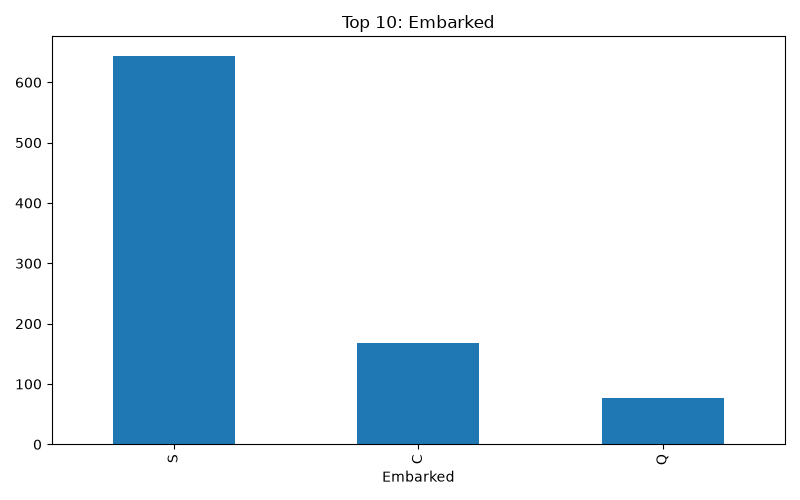
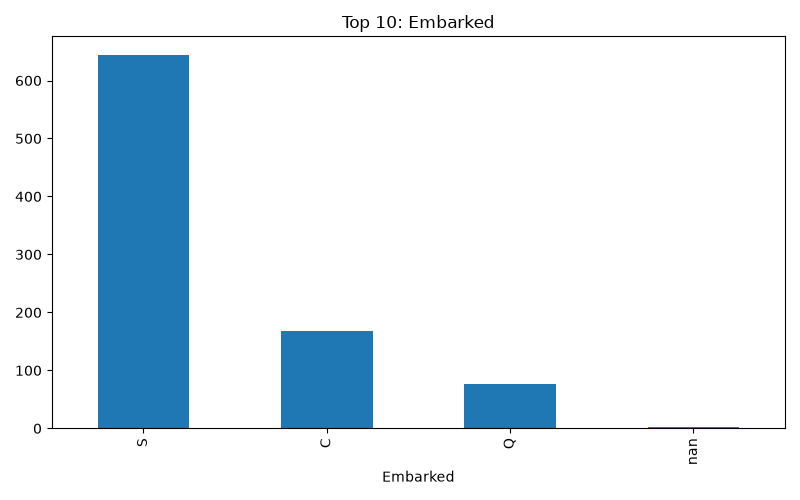
fix: handle missing categories and missing dataset file

diff --git a/eda.py b/eda.py
@@ -1,35 +1,35 @@
-import os
+from pathlib import Path
 import pandas as pd
 import matplotlib.pyplot as plt
 import seaborn as sns
 
-os.makedirs("outputs", exist_ok=True)
+OUTPUT_DIR = Path("outputs")
+OUTPUT_DIR.mkdir(exist_ok=True)
 
-df = pd.read_csv("cleaned_dataset.csv")
-
+csv_path = Path("cleaned_dataset.csv")
+if not csv_path.is_file():
+    raise FileNotFoundError(f"Dataset not found: {csv_path}")
+df = pd.read_csv(csv_path)
 print(df.describe())
 df.info()
 print(df.isnull().sum())
-
 # 1. Distribution of each numeric column
 num_cols = df.select_dtypes(include="number").columns
 df[num_cols].hist(bins=30, figsize=(12, 8))
 plt.tight_layout()
-plt.savefig("outputs/distributions.png")
+plt.savefig(OUTPUT_DIR / "distributions.png")
 plt.close()
-
 # 2. Correlation heatmap
 plt.figure(figsize=(10, 8))
 sns.heatmap(df[num_cols].corr(), annot=True, cmap="coolwarm", fmt=".2f")
 plt.tight_layout()
-plt.savefig("outputs/correlation_heatmap.png")
+plt.savefig(OUTPUT_DIR / "correlation_heatmap.png")
 plt.close()
-
 # 3. Top-10 category counts
 cat_cols = ["Sex", "Embarked", "Class_Name"]
 for col in cat_cols:
     plt.figure(figsize=(8, 5))
-    df[col].value_counts().head(10).plot(kind="bar", title=f"Top 10: {col}")
+    df[col].value_counts(dropna=False).head(10).plot(kind="bar", title=f"Top 10: {col}")
     plt.tight_layout()
-    plt.savefig(f"outputs/top10_{col}.png")
+    plt.savefig(OUTPUT_DIR / f"top10_{col}.png")
     plt.close()
